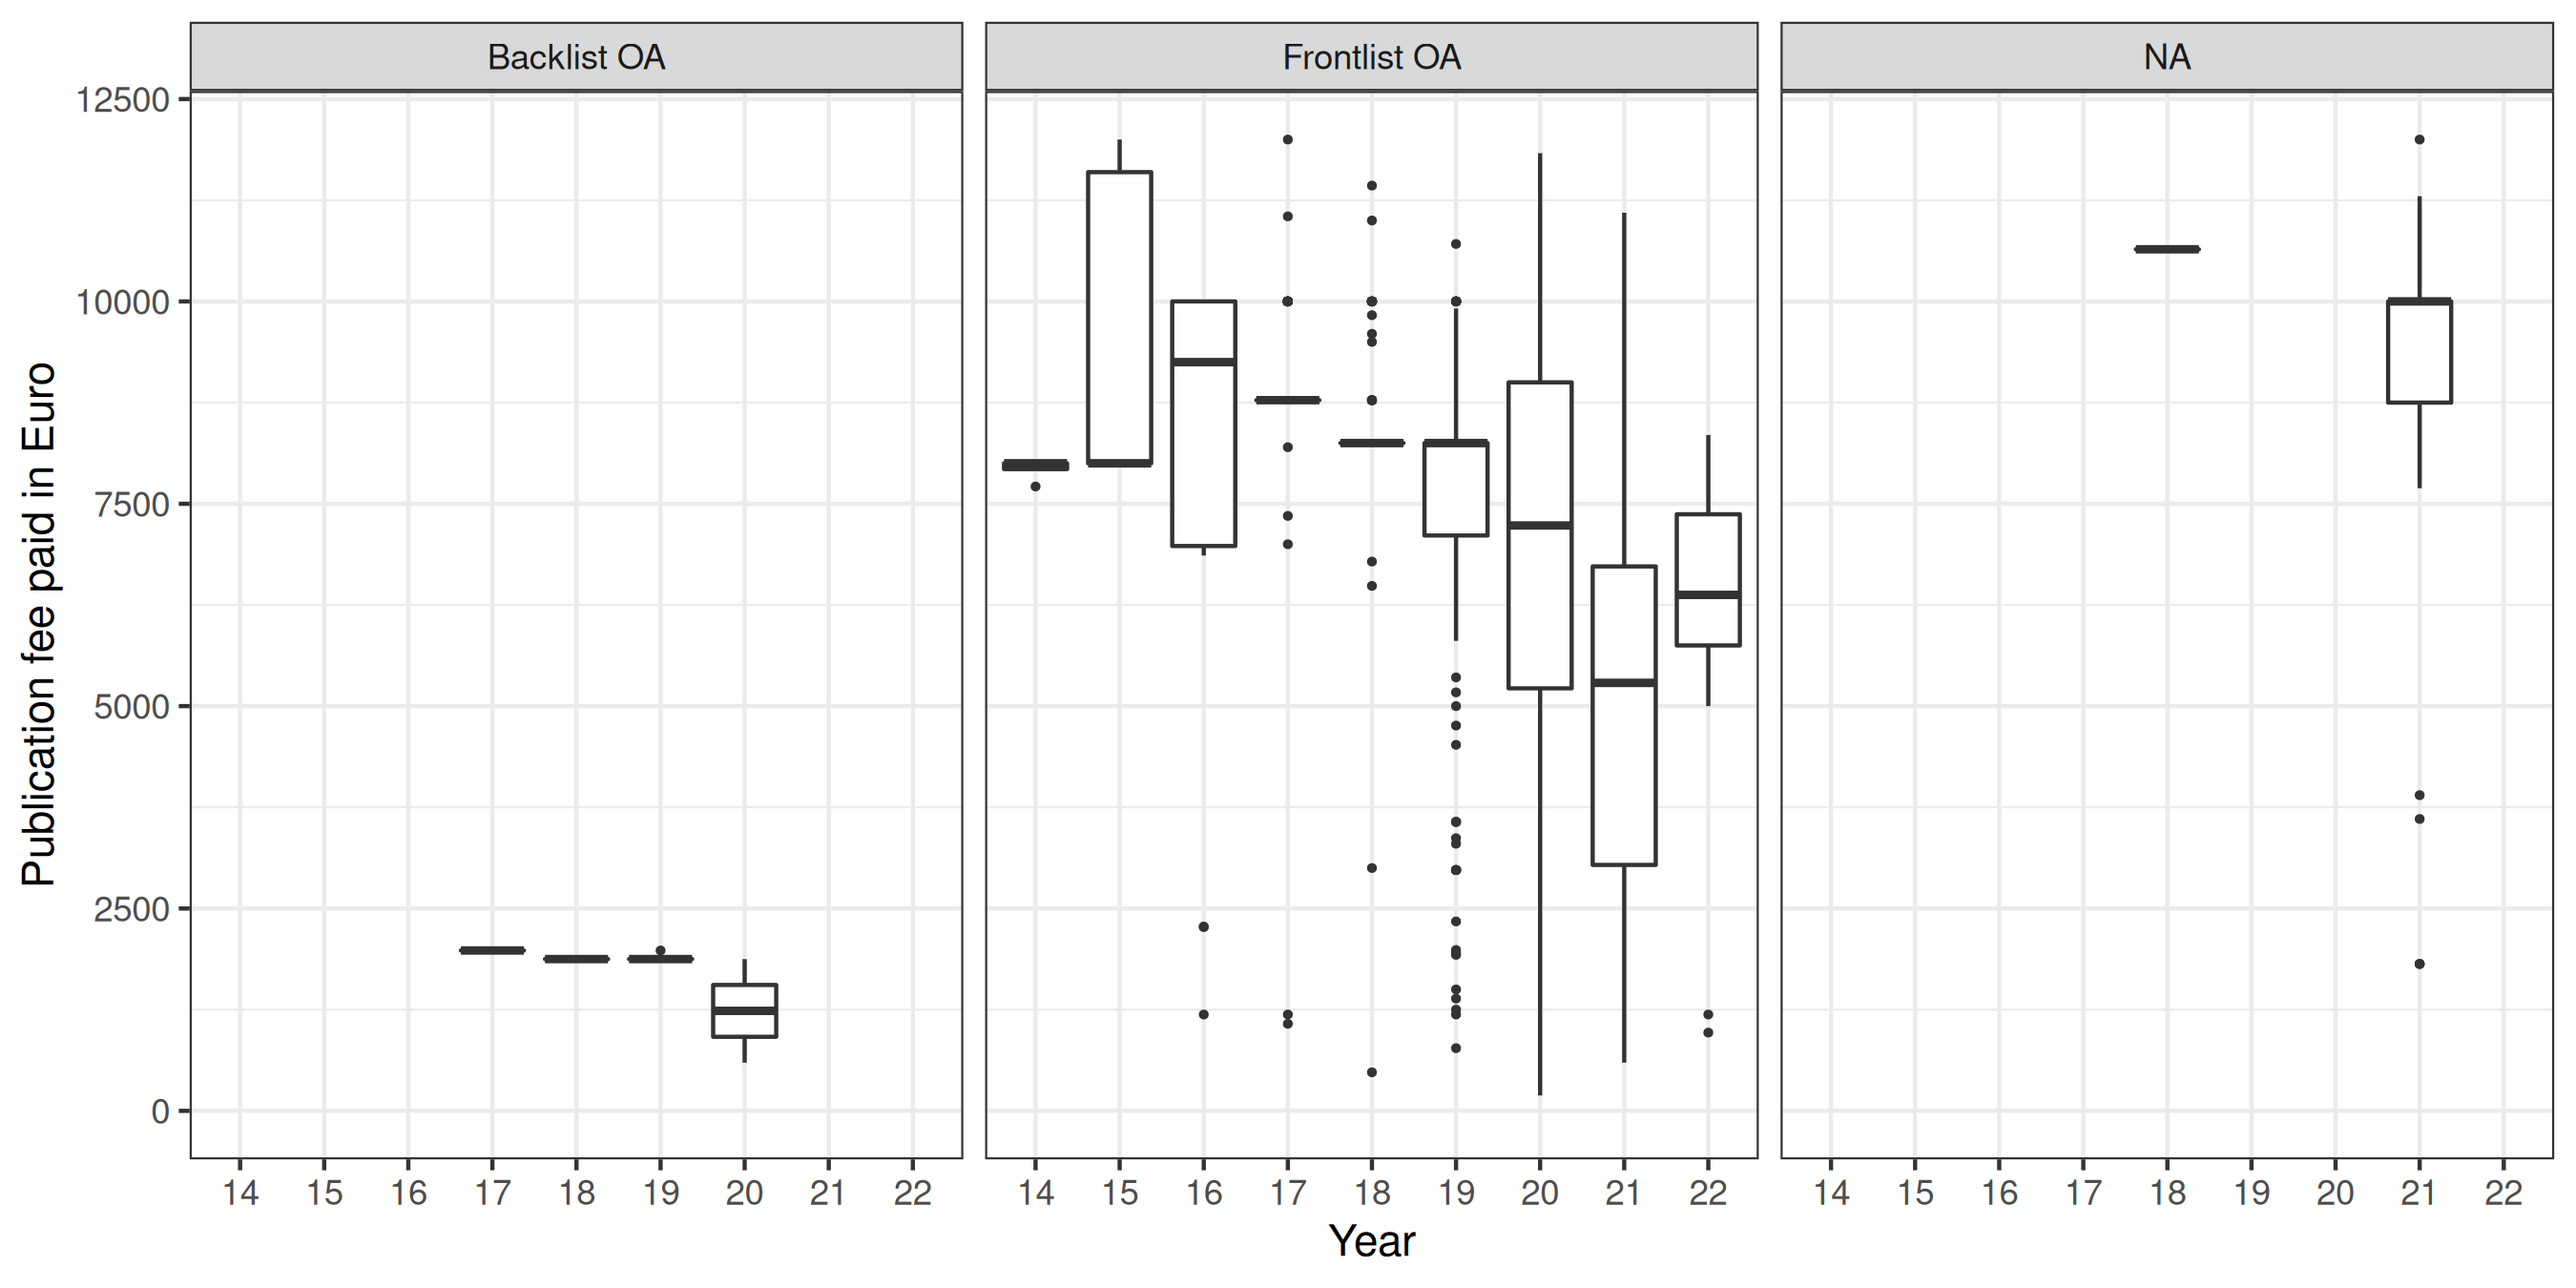
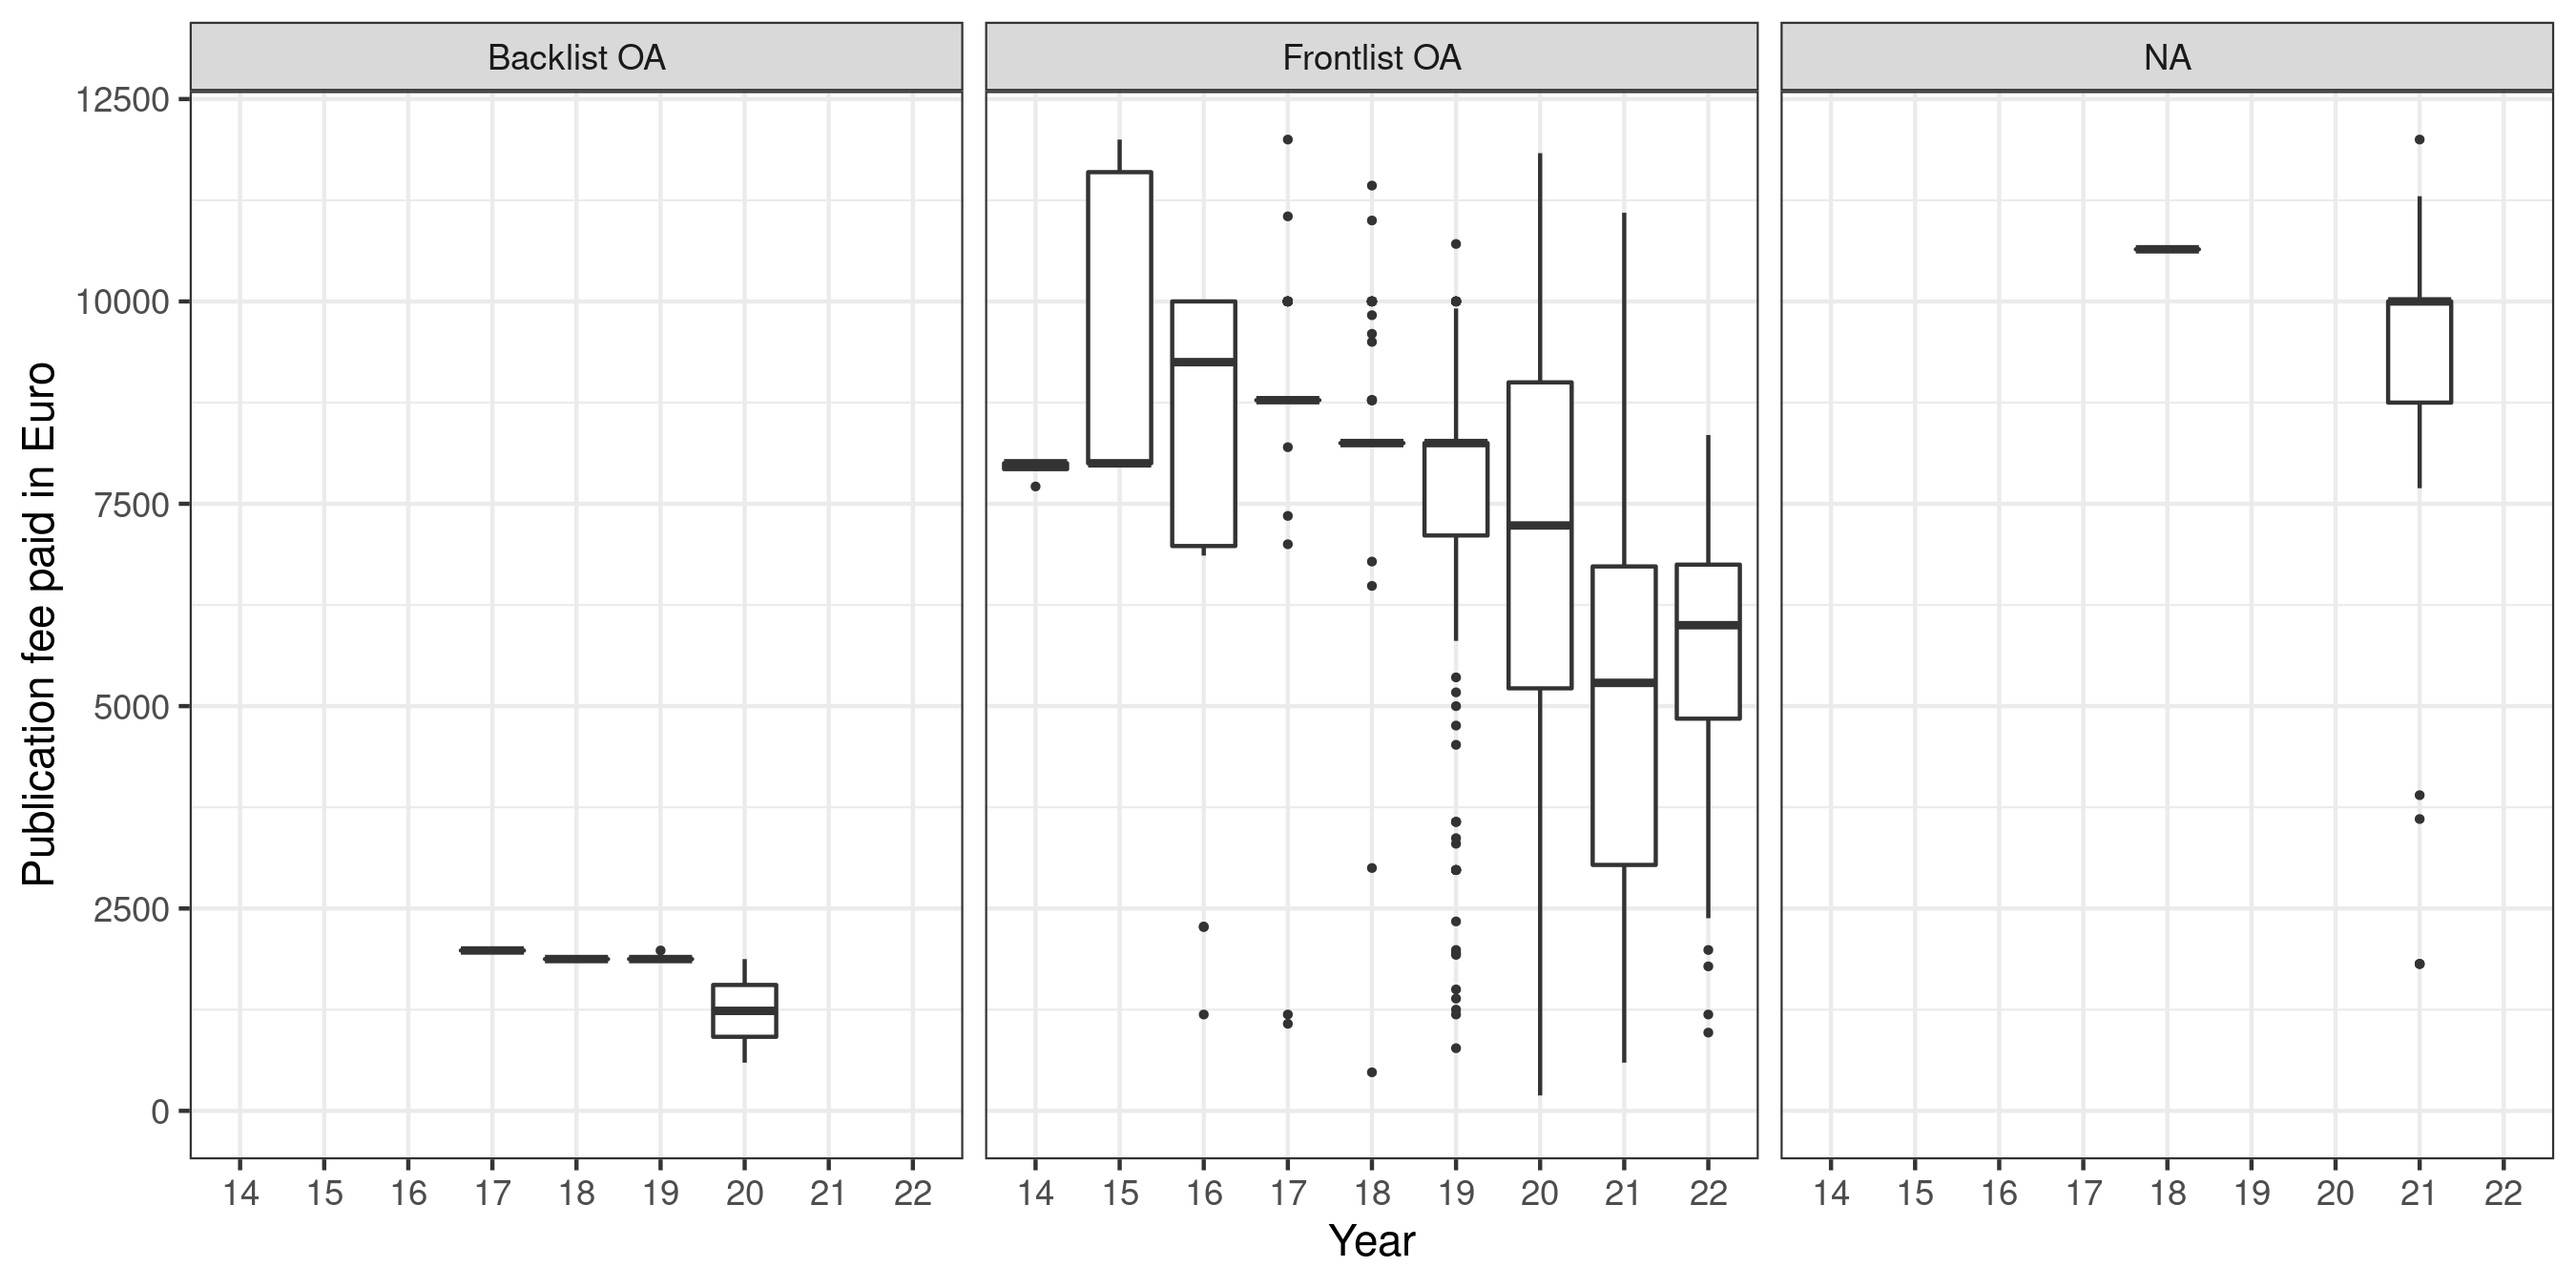
data added to collection

diff --git a/README.md b/README.md
@@ -17,7 +17,7 @@ At the moment this project provides the following cost data:
 | Publication Type | Count           | Aggregated Sum (€)      | Contributing Institutions              |
 |------------------|-----------------|-------------------------|----------------------------------------|
 | Articles         |172,206 | 331,465,686    | 389 |
-| Monographs       |1,530 | 9,800,957    | 31 |
+| Monographs       |1,548 | 9,895,021    | 31 |
 
 [![Build Status](https://api.travis-ci.com/OpenAPC/openapc-de.svg?branch=master)](https://travis-ci.com/OpenAPC/openapc-de)&nbsp;&nbsp;([What's this?](https://github.com/OpenAPC/openapc-de/wiki/Data-Integrity-Testing))
 
@@ -724,9 +724,9 @@ Hybrid open access journals rely on both publication fees and subscriptions as r
 
 ### Books (BPCs)
 
-The book data set contains information on 1,530 open access books. Publication fees were supported financially by 31 research performing institutions and funders. 
+The book data set contains information on 1,548 open access books. Publication fees were supported financially by 31 research performing institutions and funders. 
 
-In total, book processing charges covered by the OpenAPC initiative amounted to € 9,800,957. The average payment was € 6,406 and the median was € 6,863.
+In total, book processing charges covered by the OpenAPC initiative amounted to € 9,895,021. The average payment was € 6,392 and the median was € 6,757.
 
 Books can be made Open Access right from the beginning ("frontlist") or only retroactively after having been published traditionally in the first place ("backlist"), which can have a big influence on the paid BPCs.
 
@@ -749,7 +749,7 @@ Books can be made Open Access right from the beginning ("frontlist") or only ret
 |2019   |             170|    7,869|      8,250|   774 - 22,000|            194|    1,876|      1,875| 1,875 - 1,981|
 |2020   |             155|    7,550|      7,427|   190 - 19,200|              2|    1,235|      1,235|   595 - 1,875|
 |2021   |              85|    5,278|      5,355|   595 - 16,120|             NA|       NA|         NA|            NA|
-|2022   |              13|    6,553|      6,749|   966 - 14,547|             NA|       NA|         NA|            NA|
+|2022   |              31|    5,782|      6,000|   966 - 14,547|             NA|       NA|         NA|            NA|
 
 
 ## Use of external sources
